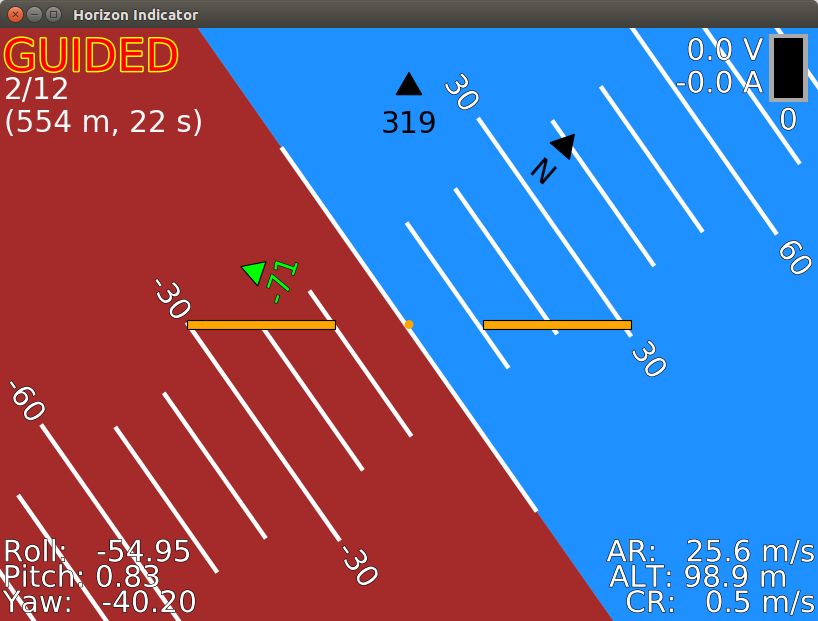
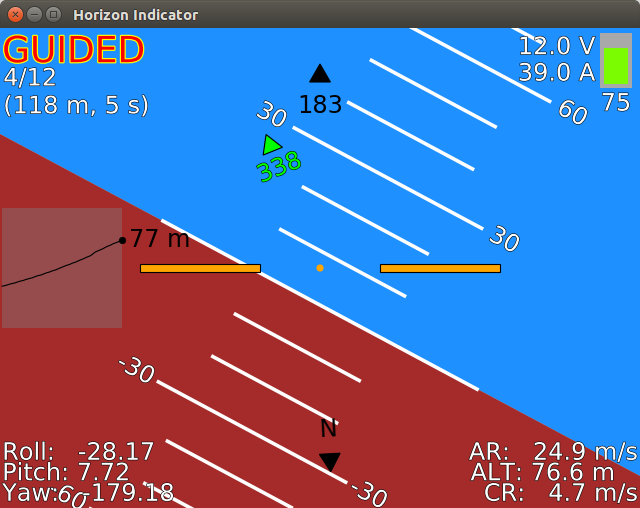
Updated README.

diff --git a/README.md b/README.md
@@ -45,13 +45,16 @@ If it doesn't install correctly the first time, run the above command again, thi
 module load horizon
 ```
 
-There are 6 main components.
+There are 7 main components.
 * Aritifical Horizon Indicator
 * Roll, Pitch, Yaw Values
 * Airspeed, Altitude, Climb Rate Values
 * Battery Indication
 * Mode and Waypoint Information
 * Heading Indication
+* Altitude Plot
+
+Each component excluding the horizon indicator, can be toggled visbile/hidden by pressing the numbers 1-6 (not numpad numbers).
 
 ### Artificial Horizon Indicator
 The artifical horizon indicator displays the ground and sky based on the current roll angle and pitch angle of the aircraft. The distance between pitch marker lines can be changed by using the UP and DOWN arrow keys.
@@ -70,6 +73,9 @@ Located in the top left corner, the vehicle mode is displayed in either green, f
 
 ### Heading Indication
 The heading indication is given by the three arrows that move around the center of the screen. The direction of the arrows are relative to the plane that is parallel to the surface of the Earth, rather than relative to the current displayed orientation by the artificial horizon indicator. The top arrow will remain in this position, and gives the current heading of the vehicle. The North point moves around the circle and points towards north, while the green pointer points to the current waypoint or point of interest, with the relative heading displayed below the pointer.
+
+### Altitude Plot
+The altitude of the vehicle is shown for the last 10 seconds. The minimum is always set as zero, while the maximum is set as the maximum altitude since the module was loaded.
 
 License
 -------
